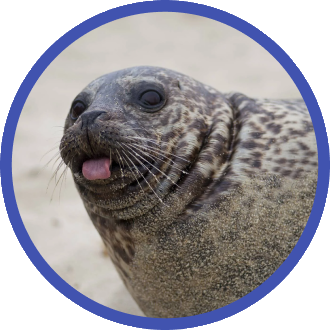
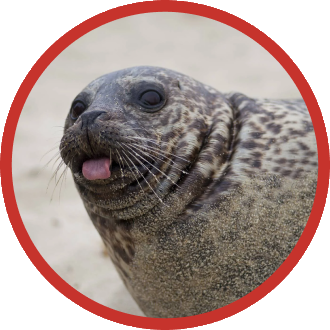
updated nav styles, global primary colour, updated images

Changed region(s): [[0.0, 0.0, 1.0, 1.0]]

diff --git a/src/components/Nav.jsx b/src/components/Nav.jsx
@@ -1,5 +1,7 @@
 import React from "react";
 import PropTypes from "prop-types";
+
+// Nav Components
 import AppBar from "@material-ui/core/AppBar";
 import CssBaseline from "@material-ui/core/CssBaseline";
 import Divider from "@material-ui/core/Divider";
@@ -13,46 +15,20 @@ import ListItemText from "@material-ui/core/ListItemText";
 import MenuIcon from "@material-ui/icons/Menu";
 import Toolbar from "@material-ui/core/Toolbar";
 import Typography from "@material-ui/core/Typography";
-import BubbleChartIcon from "@material-ui/icons/BubbleChart";
-import {makeStyles, useTheme} from "@material-ui/core/styles";
-import sosIcon from "../sosIcon.css";
+import LocalHospitalIcon from '@material-ui/icons/LocalHospital';
+import Box from "@material-ui/core/Box";
 
-// /* <li>
-//               <Link to="/nav">Nav</Link>
-//             </li>
-//             <li>
-//               <Link to="/aboutus">AboutUs</Link>
-//             </li>
-//             <li>
-//               <Link to="/contactus">ContactUs</Link>
-//             </li>
-//             <li>
-//               <Link to="/donate">Donate</Link>
-//             </li>
-//             <li>
-//               <Link to="/home">Home</Link>
-//             </li>
-//             <li>
-//               <Link to="/liveevent">LiveEvent</Link>
-//             </li>
-//             <li>
-//               <Link to="/fullmammalprofile">FullMammalProfile</Link>
-//             </li>
-//             <li>
-//               <Link to="/fullmammalprofile">MammalProfile</Link>
-//             </li>
-//             <li>
-//               <Link to="/myseals">MySeals</Link>
-//             </li>
-//             <li>
-//               <Link to="/notifications">Notifications</Link>
-//             </li> */
+
+// Imported Styles
+import {makeStyles, useTheme} from "@material-ui/core/styles";
+import { useJupiterListItemStyles } from '@mui-treasury/styles/listItem/jupiter';
 
 const drawerWidth = 220;
 
 const useStyles = makeStyles((theme) => ({
   root: {
     display: "flex",
+    color: "#DD2D25",
   },
   drawer: {
     [theme.breakpoints.up("sm")]: {
@@ -85,6 +61,10 @@ const useStyles = makeStyles((theme) => ({
   menuStyle: {
     flex: 1,
   },
+
+  navLink: {
+    color: "#DD2D25",
+  }
 }));
 
 export default function Nav(props) {
@@ -92,6 +72,9 @@ export default function Nav(props) {
   const classes = useStyles();
   const theme = useTheme();
   const [mobileOpen, setMobileOpen] = React.useState(false);
+
+  // List Item Styles
+  const listStyles = useJupiterListItemStyles();
 
   const handleDrawerToggle = () => {
     setMobileOpen(!mobileOpen);
@@ -101,7 +84,7 @@ export default function Nav(props) {
     <div>
       <div className={classes.toolbar} />
       <Divider />
-      <List>
+      <List classes={listStyles}>
         {[
           {label: "About Us", path: "/aboutus"},
           {label: "Upcoming Events", path: "/upcomingevents"},
@@ -111,15 +94,20 @@ export default function Nav(props) {
         ].map((item, index) => (
           <ListItem button key={item.label}>
             <Link to={item.path}>{item.label}</Link>
-            {/* <ListItemText primary={text} /> */}
           </ListItem>
         ))}
       </List>
       <Divider />
-      <List>
-        {["Media", "Stories", "Careers"].map((text, index) => (
-          <ListItem button key={text}>
-            <ListItemText primary={text} />
+      <List classes={listStyles}>
+        {[
+          {label: "My Profile", path: "/myseals"},
+          {label: "My Seals", path: "/myseals"},
+          {label: "My Events", path: "/mammalevents"},
+          {label: "Patient Directory", path: "/mammals"},
+          {label: "Logout", path: "/"},
+        ].map((item, index) => (
+          <ListItem button key={item.label} className={classes.navLink}>
+            <Link to={item.path}>{item.label}</Link>
           </ListItem>
         ))}
       </List>
@@ -136,8 +124,14 @@ export default function Nav(props) {
         <Toolbar>
           <Typography className={classes.menuStyle} variant="h5" noWrap>
             <Link to="/" className="link">
-              <BubbleChartIcon />
-              SOS
+              <Box display="flex" flexDirection="row" alignItems="center">
+                <LocalHospitalIcon />
+                <Box ml={1}>
+                  <Typography variant="h5">
+                    SOS
+                  </Typography>
+                </Box>
+              </Box>
             </Link>
           </Typography>
 

diff --git a/src/components/Home.jsx b/src/components/Home.jsx
@@ -17,6 +17,9 @@ import CardContent from "@material-ui/core/CardContent";
 import CardMedia from "@material-ui/core/CardMedia";
 import Button from "@material-ui/core/Button";
 
+// Material UI Text Field Component
+import TextField from "@material-ui/core/TextField";
+
 // Social Media Icons
 import IconButton from "@material-ui/core/IconButton";
 import InstagramIcon from "@material-ui/icons/Instagram";
@@ -52,13 +55,46 @@ export default function Home(props) {
   const [selected, setSelected] = React.useState(false);
 
   return (
-    <Container>
-      <Box mt={10} className={classes.root}>
+    <Container maxWidth="sm">
+      <Box mt={9}>
+        <Image src="/docs/other/home-mmr.jpg" />
+      </Box>
+      <Box mt={2} className={classes.root}>
         <Typography variant="h4" gutterBottom align="center">
+          Marine Mammal Rescue Centre
+        </Typography>
+      </Box>
+      <Box mt={3}>
+        <Divider />
+      </Box>
+
+      <Box mt={3} className={classes.root}>
+        <Typography variant="h5" gutterBottom align="center">
+          Welcome to our latest initiative
+        </Typography>
+      </Box>
+      <Box className={classes.root}>
+        <Typography variant="h5" gutterBottom align="center" color="primary">
+          <strong>SAVE OUR SEALS</strong>
+        </Typography>
+      </Box>
+      <Box mt={5} mb={3} display="flex" justifyContent="center">
+        <Image src="/docs/other/home-seals.png" size="medium"/>
+      </Box>
+      <Box mt={4} className={classes.root}>
+        <Typography variant="body1" gutterBottom align="center">
+          Your symbolic adoption makes for a perfect, green gift for animal lovers and comes with a personalized adoption certificate and a social media badge to share your adoption with the world.
+        </Typography>
+      </Box>
+      <Box mt={3}>
+        <Divider />
+      </Box>
+
+      <Box mt={5} className={classes.root}>
+        <Typography variant="h5" gutterBottom align="center">
           Latest Admissions
         </Typography>
       </Box>
-
       <Box mt={3} className={classes.root}>
         <Card>
           <CardActionArea>
@@ -80,7 +116,7 @@ export default function Home(props) {
             </CardContent>
           </CardActionArea>
           <CardActions>
-            <Button variant="contained" size="small" color="secondary">
+            <Button variant="contained" size="small" color="primary">
               <Link className="link" to="/mammalprofile">
                 Read More
               </Link>
@@ -219,18 +255,42 @@ export default function Home(props) {
           STAY INFORMED
         </Typography>
 
-        <Box mt={1} display="flex" justifyContent="center">
-          <ToggleButton
+        <Box mt={2} fullWidth display="flex" justifyContent="center">
+          {/* <ToggleButton
             value="check"
             selected={selected}
             onChange={() => {
               setSelected(!selected);
             }}
-          >
-            <SubscribeForUpdates />
+          > */}
+          {/* <SubscribeForUpdates /> */}
             {/* Subscribe for updates */}
-          </ToggleButton>
+          {/* </ToggleButton> */}
+
+          <Typography variant="body2" gutterBottom align="center">
+            <em>Sign up for our weekly newsletter</em>
+          </Typography>
         </Box>
+      </Box>
+      <Box mt={1} display="flex" justifyContent="center">
+        <form className={classes.root} noValidate autoComplete="off">
+          <TextField
+            fullWidth
+            id="standard-required"
+            label="Email"
+            variant="outlined"
+            id="standard-size-normal"
+          />
+        </form>
+      </Box>
+      <Box mt={2} display="flex" justifyContent="center">
+        <Button variant="contained" size="normal" color="primary">
+          Submit
+        </Button>
+      </Box>
+
+      <Box mt={4}>
+        <Divider />
       </Box>
 
       <Box mt={3}>

diff --git a/src/index.js b/src/index.js
@@ -4,7 +4,33 @@ import './index.css';
 import App from './App';
 import * as serviceWorker from './serviceWorker';
 
-ReactDOM.render(<App />, document.getElementById('root'));
+//global theme
+import { createMuiTheme } from '@material-ui/core/styles';
+import { ThemeProvider } from '@material-ui/styles';
+
+const theme = createMuiTheme({
+  palette: {
+    primary: {
+      main: '#DD2D25',
+    },
+    secondary: {
+      main: '#F3A83B',
+    },
+  },
+});
+
+const rootElement = document.getElementById("root");
+ReactDOM.render(
+  <React.StrictMode>
+    <ThemeProvider theme={theme}>
+      <App />
+    </ThemeProvider>
+  </React.StrictMode>,
+  rootElement
+);
+
+// original code
+// ReactDOM.render(<App />, document.getElementById('root'));
 
 // If you want your app to work offline and load faster, you can change
 // unregister() to register() below. Note this comes with some pitfalls.

diff --git a/src/components/SubscribeForUpdates.jsx b/src/components/SubscribeForUpdates.jsx
@@ -3,7 +3,7 @@ import {Button, Form, Message} from "semantic-ui-react";
 
 const FormExampleSuccess = () => (
   <Form success>
-    <Form.Input label="Email" placeholder="joe@schmoe.com" />
+    <Form.Input label="Email" placeholder="joe@schmoe.com"/>
     <Message
       success
       // header="Form Completed"

diff --git a/src/components/MammalProfile_PostLogin.jsx b/src/components/MammalProfile_PostLogin.jsx
@@ -84,9 +84,6 @@ export default function MammalProfile_PostLogin(props) {
       </Box>
 
       <Box mt={3} mb={3}>
-        <Typography variant="h4" gutterBottom>
-          gallery
-        </Typography>
         <Image src="/docs/other/profile-fade.png" />
       </Box>
 
